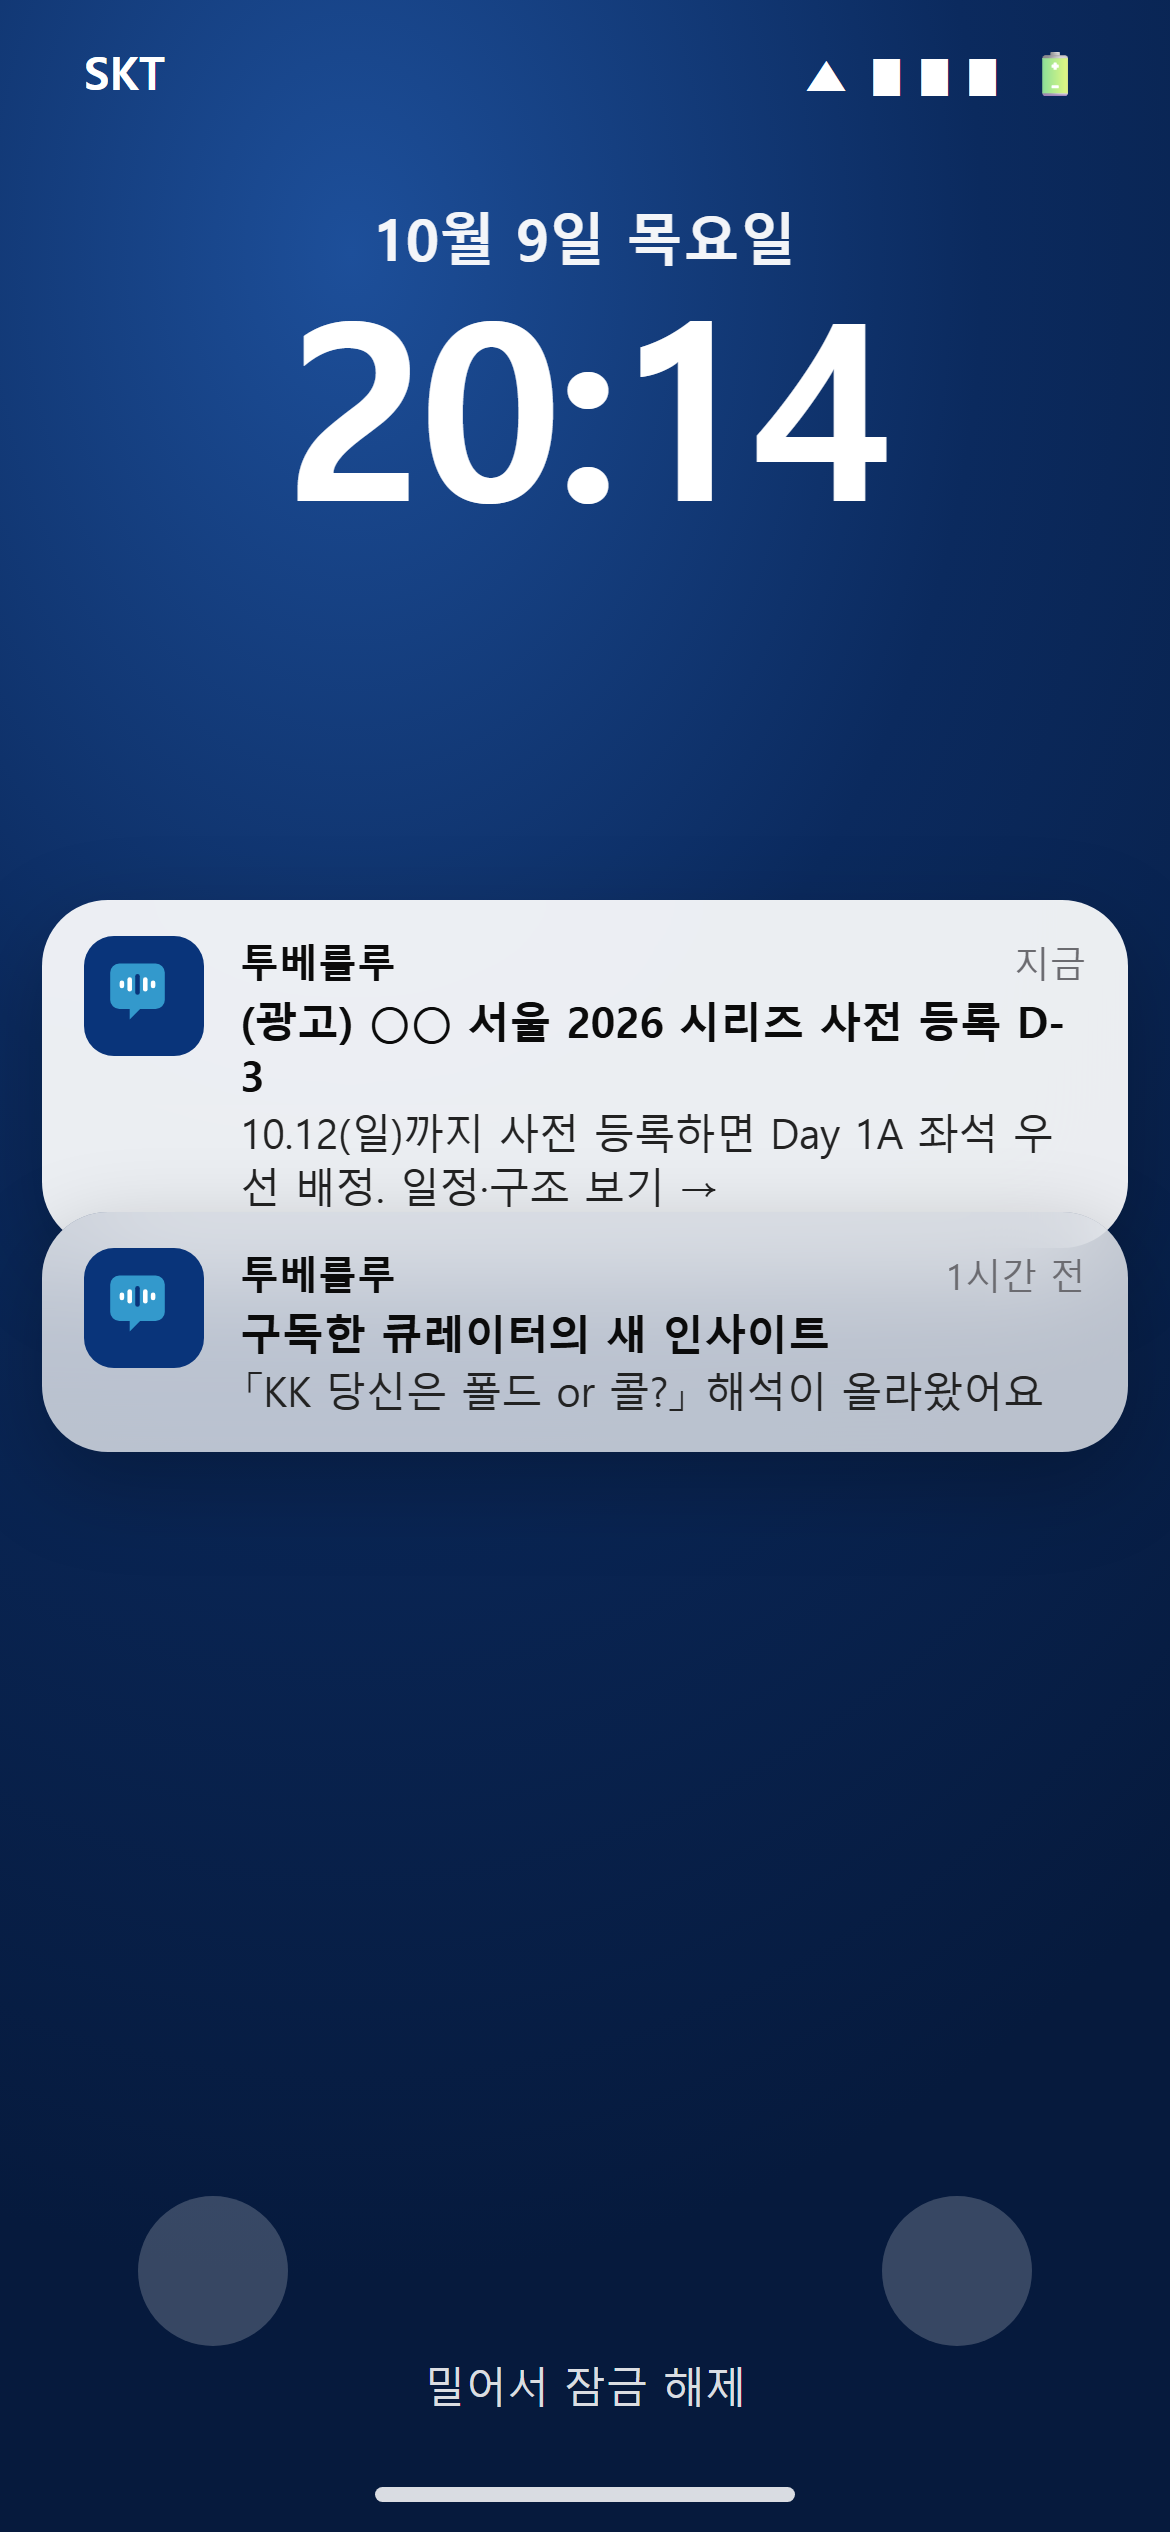
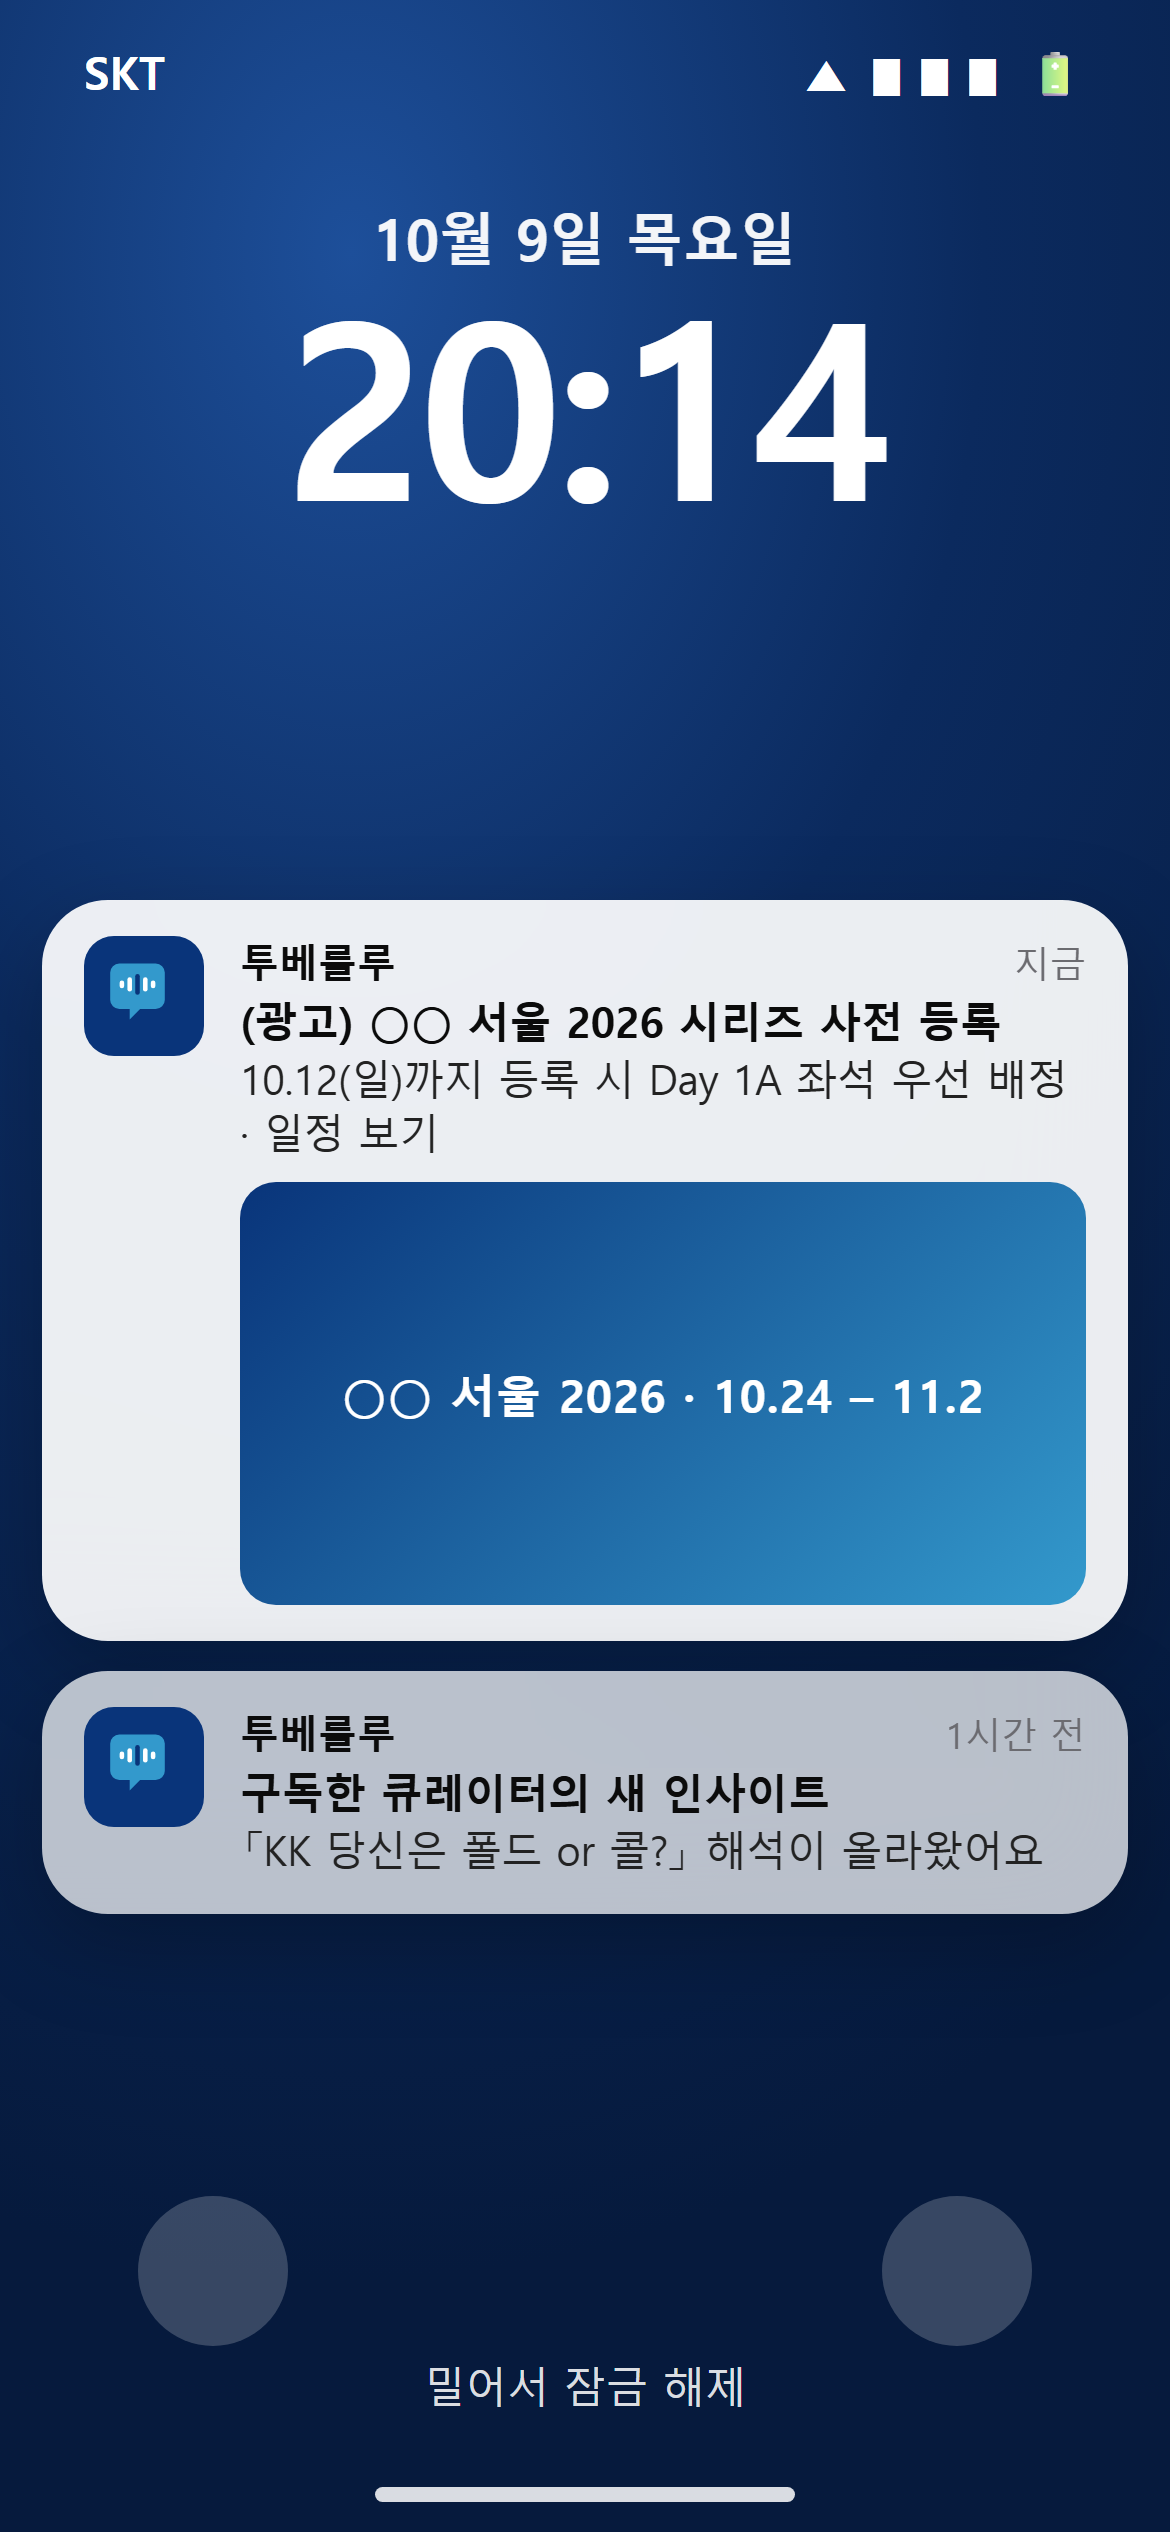
알림·메시지 슬라이드: 알림센터 캡처 잘림 해결, push 목업을 이미지형 단일 알림으로 교체
Claude-Session: https://claude.ai/code/session_0133toKDqgPSMfCoEuLWeeQS

Changed region(s): [[0.0308, 0.4056, 0.9846, 0.78]]

diff --git a/ads.html b/ads.html
@@ -704,8 +704,8 @@ body { font-family: "Pretendard Variable", Pretendard, -apple-system, BlinkMacSy
   <div class="page-head center"><div class="page-title a-up d1">주요 게재지면 <span class="hl">알림 · 메시지</span></div></div>
   <div class="slide-body">
     <div class="place-row a-up d2" style="align-items:flex-start;gap:80px">
-            <div class="place-item"><span class="slot-label">NC 알림센터 광고 알림<small>알림 목록 최상단 행 · 웹 · 앱 · 포함 서비스</small></span><div class="phone-frame"><div class="screen"><div class="sb"><span>20:14</span><span><i class="fa-solid fa-signal"></i> <i class="fa-solid fa-wifi"></i> <i class="fa-solid fa-battery-three-quarters"></i></span></div><div class="notch"></div><img src="images/slot-nc-app.png" alt="알림센터"><div class="ad-highlight" style="left:6px;right:6px;top:87px;height:51px"></div></div></div></div>
-      <div class="place-item"><span class="slot-label" style="background:var(--text-strong)">PUSH 알림 광고<small>수신 동의자 · 2:1 큰 이미지 · "(광고)" 표기</small></span><div class="phone-frame"><div class="screen"><div class="notch"></div><img src="images/push-sample.png" alt="push 알림 예시" class="full"><div class="ad-highlight" style="left:7px;right:7px;top:141px;height:51px"></div></div></div></div>
+            <div class="place-item"><span class="slot-label">NC 알림센터 광고 알림<small>알림 목록 최상단 행 · 웹 · 앱 · 포함 서비스</small></span><div class="phone-frame" style="width:232px;height:372px"><div class="screen"><div class="sb"><span>20:14</span><span><i class="fa-solid fa-signal"></i> <i class="fa-solid fa-wifi"></i> <i class="fa-solid fa-battery-three-quarters"></i></span></div><div class="notch"></div><img src="images/slot-nc-app.png" alt="알림센터"><div class="ad-highlight" style="left:6px;right:6px;top:87px;height:51px"></div></div></div></div>
+      <div class="place-item"><span class="slot-label" style="background:var(--text-strong)">PUSH 알림 광고<small>수신 동의자 · 2:1 큰 이미지 · "(광고)" 표기</small></span><div class="phone-frame"><div class="screen"><div class="notch"></div><img src="images/push-sample.png" alt="push 알림 예시" class="full"><div class="ad-highlight" style="left:7px;right:7px;top:142px;height:117px"></div></div></div></div>
     </div>
     <div class="foot-note" style="text-align:center;margin-top:16px">주황 박스 = 광고 구좌 위치 · 알림센터 카드는 웹에도 같은 자리에 노출 · push 화면은 예시</div>
   </div>
